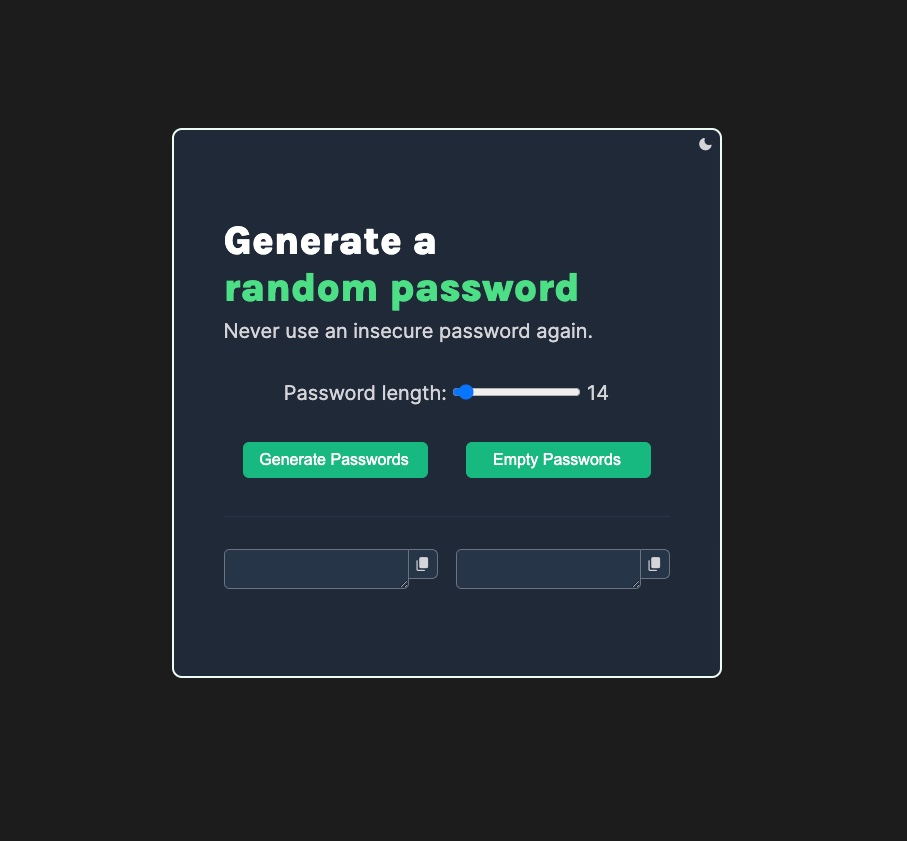
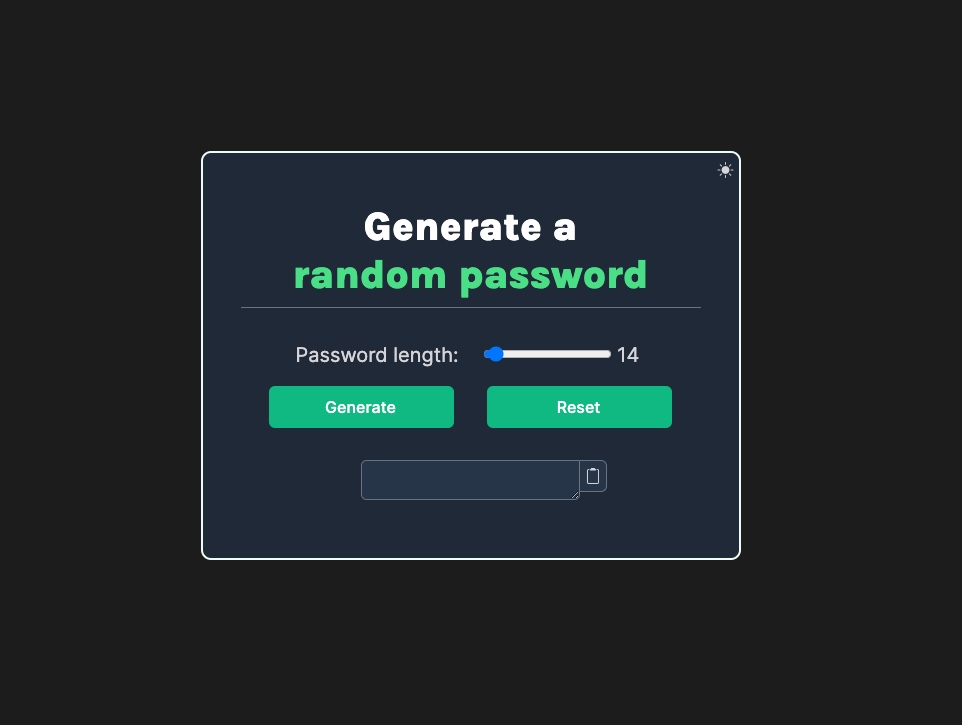
added screenshots, fixed style.min.css path in index.html

diff --git a/index.html b/index.html
@@ -5,7 +5,7 @@
     <meta name="viewport" content="width=device-width, initial-scale=1, shrink-to-fit=no">
     <link rel="stylesheet" href="https://cdn.jsdelivr.net/npm/bootstrap-icons@1.9.0/font/bootstrap-icons.css">
     <link href="https://cdn.jsdelivr.net/npm/bootstrap@5.2.0-beta1/dist/css/bootstrap.min.css" rel="stylesheet" integrity="sha384-0evHe/X+R7YkIZDRvuzKMRqM+OrBnVFBL6DOitfPri4tjfHxaWutUpFmBp4vmVor" crossorigin="anonymous">
-    <link href="/dist/css/styles.min.css" rel="stylesheet">
+    <link href="dist/css/styles.min.css" rel="stylesheet">
 </head>
 <body class="text-center">
     <div class="main">

diff --git a/README.md b/README.md
@@ -6,7 +6,7 @@ This is my stab at the Password Generator solo project from [scrimba.com's learn
 
 ## Screenshots
 
-![App Screenshot](./screenshot.jpg)
+![Screenshot](./screenshot.jpg) ![Lightmode](./screenshot-lightmode.jpg) ![Responsive](./screenshot-responsive.jpg)
 
 
 ## Run Locally
